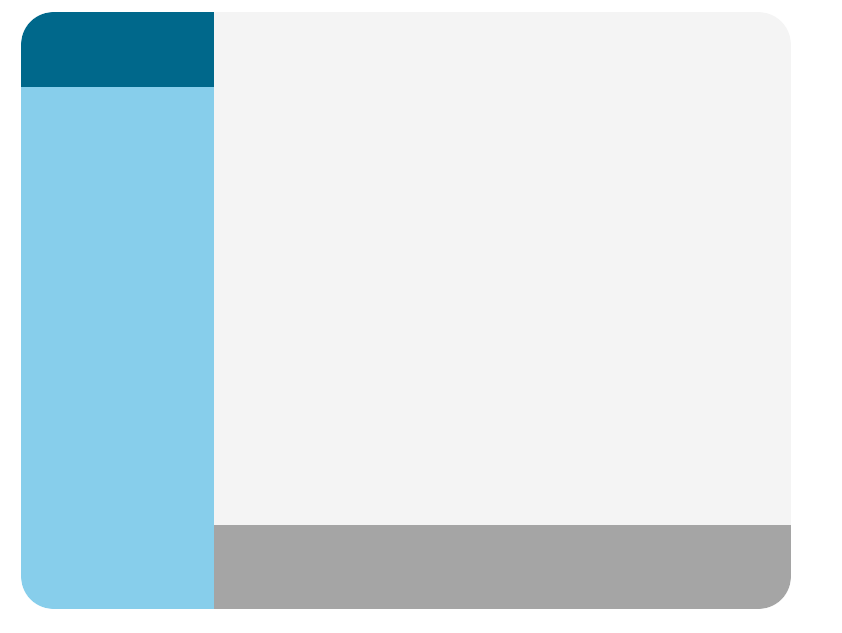
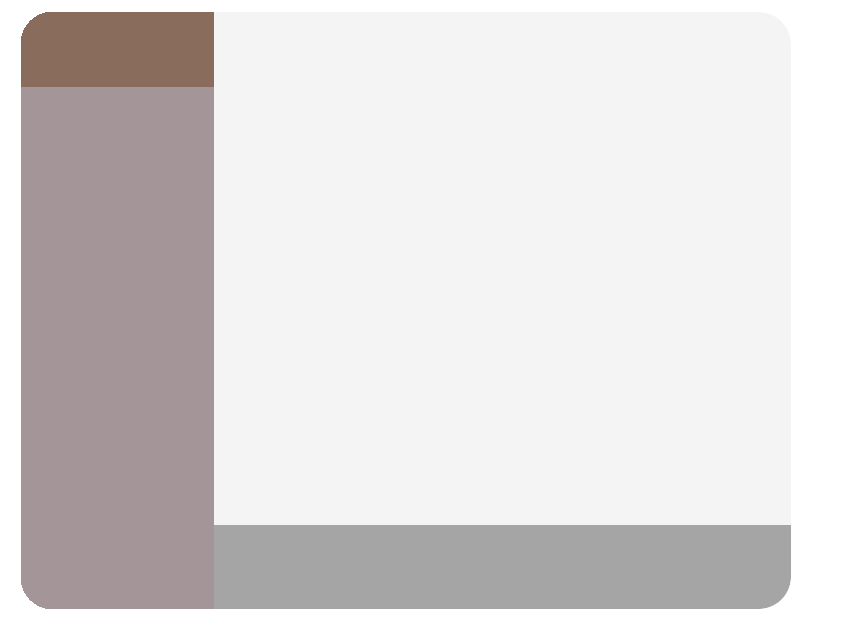
GUI update - major colour shift

Changed region(s): [[0.0, 0.0, 0.2779, 0.9605]]

diff --git a/styles.css b/styles.css
@@ -206,7 +206,7 @@ html {
 }
 
 a {
-  color: #87CEEB;
+  color: #A39598;
   text-decoration: none;
   -webkit-transition: all 0.2s ease;
   transition: all 0.2s ease;
@@ -251,7 +251,7 @@ hr {
 #headerLinks > .text-link:hover, #headerLinks > .text-link:active, #headerLinks > .text-link:focus {
   color: #403f3f;
 }
-#headerLinks > .patch-notes-title {
+#headerLinks > .news-updates-title {
   font-size: 27px;
   color: #000;
   padding: 1px 14px 0 0;
@@ -278,14 +278,14 @@ hr {
   opacity: 0.65;
 }
 
-.patch-notes-wrapper {
+.news-updates-wrapper {
   height: 365px;
   width: 100%;
   position: relative;
-  background-color: rgba(255,255,255,0.9);
-  border: 2px solid #87CEEB;
+  background-color: rgba(250, 248, 240,0.9);
+  border: 2px solid #292225;
 }
-.patch-notes-wrapper .patch-notes-view {
+.news-updates-wrapper .news-updates-view {
  /*WEB PANEL EDIT WIDTH*/
   width: 406px;
   height: 100%;
@@ -293,7 +293,7 @@ hr {
   -webkit-transition: opacity 0.2s linear;
   transition: opacity 0.2s linear;
 }
-.patch-notes-wrapper .patch-notes-refresh {
+.news-updates-wrapper .news-updates-refresh {
   position: absolute;
   top: 14px;
   right: 24px;
@@ -310,17 +310,17 @@ hr {
   -webkit-transition: opacity 0.2s linear;
   transition: opacity 0.2s linear;
 }
-.patch-notes-wrapper:hover .patch-notes-refresh {
+.news-updates-wrapper:hover .news-updates-refresh {
   opacity: 0.5;
 }
-.patch-notes-wrapper:hover .patch-notes-refresh:hover {
+.news-updates-wrapper:hover .news-updates-refresh:hover {
   opacity: 0.8;
 }
-.patch-notes-wrapper .patch-notes-refresh.spinner {
+.news-updates-wrapper .news-updates-refresh.spinner {
   cursor: default;
   opacity: 0.8 !important;
 }
-.patch-notes-wrapper .patch-notes-refresh.hidden {
+.news-updates-wrapper .news-updates-refresh.hidden {
   cursor: default;
   opacity: 0 !important;
 }
@@ -383,15 +383,15 @@ hr {
   !color: #fff;
   cursor: pointer;
   padding: 9px 18px;
-  border: 1px solid #87CEEB;
-  background-color: #87CEEB;
+  border: 1px solid #292225;
+  background-color: #A39598;
   outline: none;
   -webkit-transition: all 0.1s linear;
   transition: all 0.1s linear;
 }
 .swga-button:hover {
   color: #000;
-  border-color: #87CEEB;
+  border-color: #292225;
   background-color: #FFFFFF;
 }
 .swga-button:active {
@@ -402,7 +402,7 @@ hr {
 .swga-button:disabled {
   cursor: not-allowed;
   background-color: #140d0d !important;
-  border-color: #87CEEB !important;
+  border-color: #A39598 !important;
 }
 
 .swga-button.swga-btn-icon {
@@ -491,8 +491,8 @@ hr {
   text-transform: uppercase;
   cursor: pointer;
   padding: 8px 0;
-  border: 1px solid #87CEEB;
-  background-color: #87CEEB;
+  border: 1px solid #292225;
+  background-color: #A39598;
   -webkit-transition: all 0.1s linear;
   transition: all 0.1s linear;
 }
@@ -509,7 +509,7 @@ hr {
 .play-button-container #play:disabled {
   cursor: not-allowed;
   background-color: #140d0d !important;
-  border-color: #87CEEB !important;
+  border-color: #292225 !important;
 }
 
 #cancelBtn {
@@ -532,7 +532,7 @@ hr {
 #cancelBtn:active {
   color: rgba(255,255,255,0.85);
 }
-#cancelBtn: focus {
+#cancelBtn:focus {
   color: rgba(255,255,255,0.7);
 }
 #cancelBtn:disabled {
@@ -564,8 +564,8 @@ hr {
 
 #progress {
   height: 8px;
-  background: -webkit-linear-gradient(left, rgba(135, 206, 235,1) 0%,rgba(135, 206, 235,1) 85%,rgba(200, 200, 200,1) 100%);
-  background: linear-gradient(to right, rgba(135, 206, 235,1) 0%,rgba(135, 206, 235,1) 85%,rgba(200, 200, 200,1) 100%);
+  background: -webkit-linear-gradient(left, rgba(137, 108, 92,1) 0%,rgba(137, 108, 92,1) 85%,rgba(200, 200, 200,1) 100%);
+  background: linear-gradient(to right, rgba(137, 108, 92,1) 0%,rgba(137, 108, 92,1) 85%,rgba(200, 200, 200,1) 100%);
 }
 .server-stats {
   color: #fff;
@@ -607,7 +607,7 @@ hr {
   height: 200px;
   position: relative;
   background-color: rgba(255,255,255,0.97);
-  border: 2px solid #87CEEB;
+  border: 2px solid #A39598;
   box-shadow: 0 2px 9px rgba(0,0,0,0.3);
 }
 .config-section-arrow {
@@ -628,14 +628,14 @@ hr {
   height: 30px;
   background-color: rgba(255,255,255,0.97);
   border-right: 2px solid #FFFFFF;
-  border-bottom: 2px solid #00688B;
+  border-bottom: 2px solid #896C5C;
   transform: rotate(45deg);
   box-shadow: 0 2px 9px rgba(0,0,0,0.3);
 }
 .config-section-header {
   width: 100%;
   padding: 4px 6px;
-  background-color: #00688B;
+  background-color: #896C5C;
   color: #000;
   font-family: 'swga-font';
   font-weight: 600;
@@ -711,7 +711,7 @@ hr {
   text-transform: uppercase;
   padding-bottom: 2px;
   margin: 0 0 4px;
-  border-bottom: 1px solid #87CEEB;
+  border-bottom: 1px solid #A39598;
 }
 .swga-button-sm {
   font-family: 'Helvetica', 'Arial', sans-serif;
@@ -720,8 +720,8 @@ hr {
   cursor: pointer;
   font-weight: 600;
   padding: 6px 8px;
-  border: 1px solid #87CEEB;
-  background-color: #87CEEB;
+  border: 1px solid #292225;
+  background-color: #A39598;
   -webkit-transition: all 0.1s linear;
   transition: all 0.1s linear;
 }
@@ -737,7 +737,7 @@ hr {
   cursor: not-allowed;
   color: #444;
   background-color: #140d0d !important;
-  border-color: #87CEEB !important;
+  border-color: #A39598 !important;
 }
 .swga-button-sm:disabled:hover {
   color: #000;
@@ -760,7 +760,7 @@ a.swga-button-sm:active {
 }
 a.swga-button-sm:focus {
   color: #000;
-  border-color: #00688B;
+  border-color: #292225;
   background-color: #FFFFFF;
 }
 
@@ -777,7 +777,7 @@ input {
   transition: all 0.1s linear;
 }
 input:focus {
-  border-bottom: 1px solid #87CEEB;
+  border-bottom: 1px solid #A39598;
   outline: none !important;
 }
 #browse {
@@ -821,7 +821,7 @@ select {
   transition: all 0.1s linear;
 }
 select:focus {
-  border-bottom: 1px solid #b80000;
+  border-bottom: 1px solid #A39598;
   outline: none !important;
 }
 
@@ -1041,7 +1041,7 @@ button.tooltip:hover {
 
 .config-prompt-overlay #setupCompletePrompt .config-options {
   background-image: url("./img/swga-mini-logo-grey.png");
-  background-size: auto;
+  background-size: 20px;
   background-position: 96% 6%;
   background-repeat: no-repeat;
 }
@@ -1087,15 +1087,15 @@ button.tooltip:hover {
 }
 
 @keyframes noticeMeSenpai {
-  0%  { background-color: #87CEEB; }
+  0%  { background-color: #A39598; }
   20% { background-color: #FFFFFF; }
-  40% { background-color: #87CEEB; }
+  40% { background-color: #A39598; }
 }
 
 @-webkit-keyframes noticeMeSenpai {
-  0%  { background-color: #87CEEB; }
+  0%  { background-color: #A39598; }
   20% { background-color: #FFFFFF; }
-  40% { background-color: #87CEEB; }
+  40% { background-color: #A39598; }
 }
 
 .spinner {
@@ -1127,16 +1127,16 @@ button.tooltip:hover {
   display: block;
   width: 15px;
   height: 15px;
-  background-color: #87CEEB;
-  border: 2px solid #00688B;
+  background-color: #A39598;
+  border: 2px solid #896C5C;
   -webkit-transition: all 0.1s linear;
   transition: all 0.1s linear;
 }
 .swga-checkbox input[type="checkbox"]:checked:after {
   content: "";
   display: inline-block;
-  background-color: #00688B;
-  border-color: #87CEEB;
+  background-color: #896C5C;
+  border-color: #A39598;
 }
 .swga-checkbox input[type="checkbox"]:checked:before {
   content: "\2713";

diff --git a/renderer.js b/renderer.js
@@ -46,8 +46,8 @@ const zoomSel = document.getElementById('zoom');
 // External Links
 const headerLinks = document.getElementById("headerLinks");
 const mainButtonLinks = document.getElementById('mainButtonLinks');
-const patchNotesView = document.getElementById('patchNotesView');
-const patchNotesRefresh = document.getElementById('patchNotesRefresh');
+const newsUpdatesView = document.getElementById('newsUpdatesView');
+const newsUpdatesRefresh = document.getElementById('newsUpdatesRefresh');
 
 const skillPlanner = document.getElementById('skillPlanner');
 
@@ -258,27 +258,27 @@ mainButtonLinks.addEventListener('click', function(e) {
         shell.openExternal(e.target.href);
 });
 
-patchNotesView.addEventListener('will-navigate', function(e) {
+newsUpdatesView.addEventListener('will-navigate', function(e) {
     const protocol = require('url').parse(e.url).protocol;
     if (protocol === 'http:' || protocol === 'https:')
         shell.openExternal(e.url);
-    patchNotesView.stop();
+    newsUpdatesView.stop();
 });
 
-patchNotesView.addEventListener('dom-ready', function(e) {
-    patchNotesRefresh.className = 'patch-notes-refresh hidden';
-    patchNotesView.style.opacity = '1';
+newsUpdatesView.addEventListener('dom-ready', function(e) {
+    newsUpdatesRefresh.className = 'news-updates-refresh hidden';
+    newsUpdatesView.style.opacity = '1';
     setTimeout(function(){
-        patchNotesRefresh.disabled = false;
-        patchNotesRefresh.className = 'patch-notes-refresh';
+        newsUpdatesRefresh.disabled = false;
+        newsUpdatesRefresh.className = 'news-updates-refresh';
     }, 2000);
 });
 
-patchNotesRefresh.addEventListener('click', function(e) {
-    patchNotesRefresh.disabled = true;
-    patchNotesRefresh.className = 'patch-notes-refresh spinner';
-    patchNotesView.reloadIgnoringCache();
-    patchNotesView.style.opacity = '0';
+newsUpdatesRefresh.addEventListener('click', function(e) {
+    newsUpdatesRefresh.disabled = true;
+    newsUpdatesRefresh.className = 'news-updates-refresh spinner';
+    newsUpdatesView.reloadIgnoringCache();
+    newsUpdatesView.style.opacity = '0';
 });
 
 /*

diff --git a/index.html b/index.html
@@ -15,7 +15,7 @@
         <div class="header-section">
           <img class="swga-logo draggable" src="./img/img-swga-logo.png" />
           <div id="headerLinks">
-            <a href="https://swgawakening.com/viewforum.php?f=85" class="header-link patch-notes-title text-link">Patch Notes</a>
+            <a href="https://swgawakening.com/viewforum.php?f=85" class="header-link news-updates-title text-link">Patch Notes</a>
             <a href="https://swgawakening.com/portal" class="header-link text-link">Website</a>
             <a href="https://swgawakening.com/index.php" class="header-link text-link">Forums</a>
             <a href="https://discord.gg/QxQSXwY" class="header-link btn-links btn-discord"></a>
@@ -31,9 +31,9 @@
         </div>
         <div class="content-section">
           <div class="left-section">
-            <div class="patch-notes-wrapper">
-              <button id="patchNotesRefresh" class="patch-notes-refresh"></button>
-              <webview id="patchNotesView" class="patch-notes-view" src="https://swgawakening.com/launcher-home.php"></webview>
+            <div class="news-updates-wrapper">
+              <button id="newsUpdatesRefresh" class="news-updates-refresh"></button>
+              <webview id="newsUpdatesView" class="news-updates-view" src="https://swgawakening.com/launcher-home.php"></webview>
             </div>
           </div>
           <div class="right-section">

diff --git a/setup/setup.js b/setup/setup.js
@@ -8,6 +8,7 @@ const install = require('../install');
 const path = require('path');
 
 const sidebarLinks = document.getElementById('sidebarLinks');
+const rulesAgree = document.getElementById('rulesAgree');
 
 const folderBox = document.getElementById('folder'); // SWG Awakening Folder Location
 const browseBtn = document.getElementById('browse'); // Set Installation Location Button
@@ -159,6 +160,10 @@ function fileCleanUp() {
     }
 }
 
+rulesAgree.addEventListener('click', function(e) {
+    e.preventDefault();
+    shell.openExternal(e.target.href);
+});
 
 sidebarLinks.addEventListener('click', function(e) {
     e.preventDefault();

diff --git a/setup/index.html b/setup/index.html
@@ -30,7 +30,7 @@
         <h2 class="setup-title">SWG Awakening Setup</h2>
 
         <div id="rulesAgree" class="setup-tab active">
-          <p class="config-label">Terms of Service</p>
+          <p class="config-label">Terms of Service - <a href="https://swgawakening.com/ucp.php?mode=terms">Read Online</a></p>
             <div class="rules-reg-wrapper">
               <webview class="rules-reg-view" src="https://swgawakening.com/launcher-terms.php"></webview>
             </div>

diff --git a/setup/styles.css b/setup/styles.css
@@ -24,6 +24,17 @@ hr {
   margin: 14px 0;
   border-top: 1px solid #999;
 }
+
+a {
+  color: #A39598;
+  text-decoration: none;
+  -webkit-transition: all 0.2s ease;
+  transition: all 0.2s ease;
+}
+a:hover, a:active, a:focus {
+  color: #B5B3B3;
+}
+
 /* Fonts */
 @font-face {
   font-family: 'swga-font';
